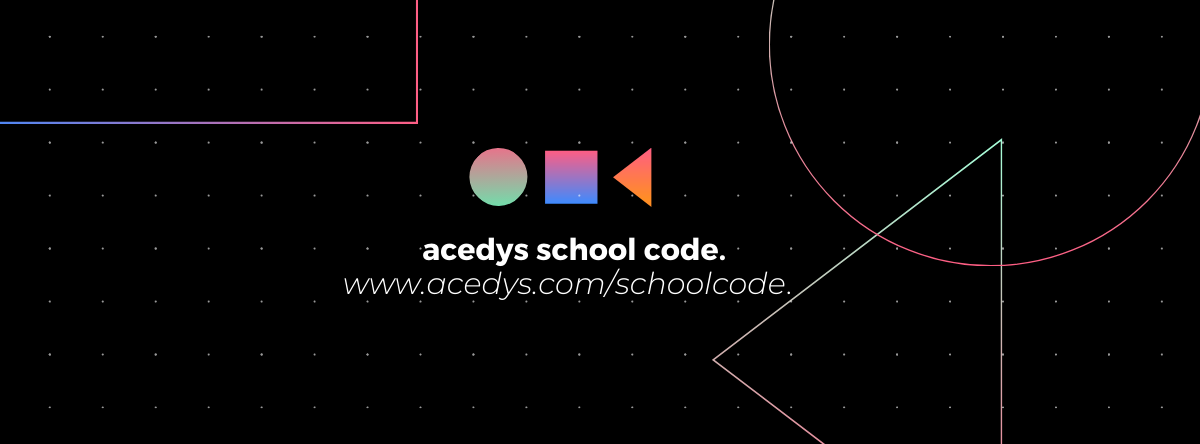
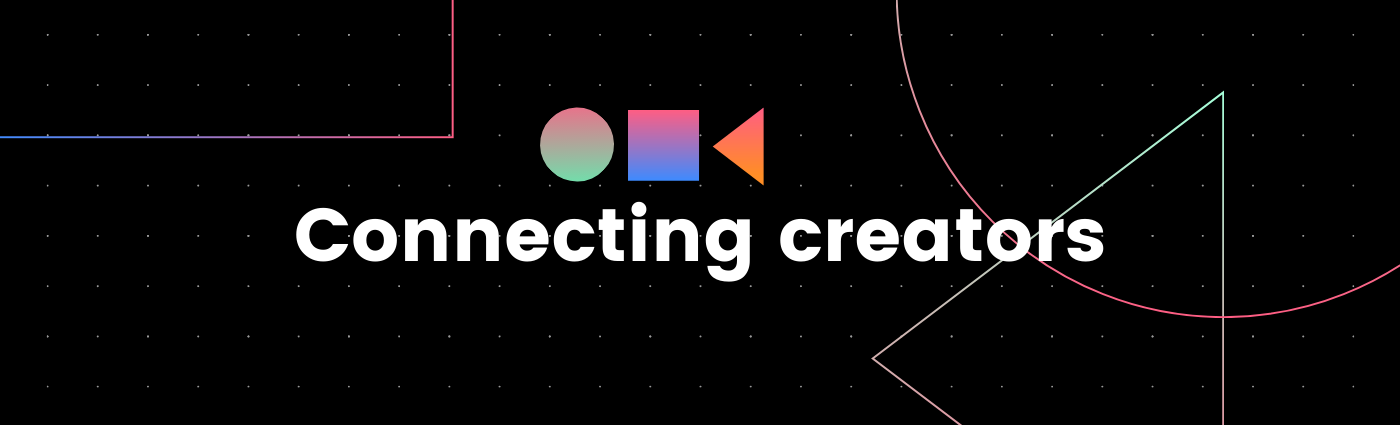
Add files via upload

diff --git a/index.html b/index.html
@@ -45,11 +45,11 @@
                         <ul class="flex space-x-8 text-sm font-semibold">
                             <li><a href="index.html" class="active border-b-2 border-pink-500 pb-2">Home</a></li>
                             <li><a href="blocks.html" class="hover:text-pink-500">Blocks</a></li>
-                            <li><a href="templates.html" class="hover:text-pink-500">Templates</a></li>
+                            <li><a href="templates.html" class="hover:text-pink-500">Devmart</a></li>
                             <li><a href="codehub.html" class="hover:text-pink-500">Code hub</a></li>
                             <li><a href="devgroups.html" class="hover:text-pink-500">Dev groups</a></li>
 
-                            <li><a href="weblit.html" class="cta bg-pink-500 hover:bg-pink-600 px-3 py-2 rounded text-white font-normal"><b>Weblit beta</b></a></li>
+                            <li><a href="weblit.html" class="cta bg-black hover:bg-black px-3 py-2 rounded text-white font-normal"><b>Get started</b></a></li>
                         </ul>
                     </navbar>
 
@@ -66,6 +66,56 @@
                     <h1 class=" font-bold text-4xl md:text-5xl max-w-xl text-gray-900 leading-tight">Welcome to acedys</h1>
                     <hr class=" w-12 h-1 bg-pink-500 rounded-full mt-2">
                     <div class="get-app flex space-x-5 mt-5 justify-center md:justify-start">
+                        <button class=" bg-black shadow-md px-5 py-2 rounded-lg flex items-center space-x-4">
+
+                         <a href="#">   <div class="text">
+                            <p style="font-size: 17px;" class=" text-xs font-semibold text-white">Sign up</p>
+                            </div></a>
+                        </button>
+                        <button class=" bg-black shadow-md px-5 py-2 rounded-lg flex items-center space-x-4">
+                            <div class="image">
+
+                         <a href="#">  <div class="text">
+                                <p style="font-size: 18px;" class="text-xs font-semibold text-white">Log in</p>
+                            </div>
+                         </a> 
+                        </button>
+
+                    </div>
+                </div>
+
+                <div class="hero-image col-span-6">
+
+
+<img src="ac.jpg">
+
+
+
+                 
+                </div>
+            </div>
+              <section class="text-gray-700 body-font">
+  <div class="container px-1 py-20 mx-auto flex flex-col">
+    <div class="lg:w-6/6 mx-auto">
+      <div class="rounded-lg h-70 overflow-hidden">
+        <img alt="content" class="object-cover object-center h-full w-full" src="connect.png">
+      </div>
+      <div class="flex flex-col sm:flex-row mt-10">
+        <div class="sm:w-1/4 text-center sm:pr-8 sm:py-8">
+          <div class=" rounded-full inline-flex items-center justify-center">
+
+            <img style="width: 165px;" src="ac.png">
+          </div>
+          <div class="flex flex-col items-center text-center justify-center">
+            <h2 class="font-medium title-font mt-4 text-gray-900 text-lg">Try acedys beta</h2>
+
+
+
+          </div>
+        </div>
+        <div class="sm:w-2/3 sm:pl-8 sm:py-8 sm:border-l border-gray-300 sm:border-t-0 border-t mt-4 pt-4 sm:mt-0 text-center sm:text-left">
+          <p class="leading-relaxed text-lg mb-4">Nmap is a free and open-source network scanner created by Gordon Lyon. Nmap is used to discover hosts and services on a computer network by sending packets and analyzing the responses. Nmap provides a num</p>
+<div class="get-app flex space-x-5 mt-5 justify-center md:justify-start">
                         <button class=" bg-white shadow-md px-1 py-2 rounded-lg flex items-center space-x-4">
 
                          <a href="swagstore.html">   <div class="text">
@@ -84,64 +134,48 @@
                             <div class="image">
 
                          <a href="freebies.html">  <div class="text">
-                                <p style="font-size: 15px;" class="text-xs font-semibold text-gray-900">Deals</p>
+                                <p style="font-size: 15px;" class="text-xs font-semibold text-gray-900">Freebies</p>
                             </div>
                             </a> 
                         </button>
-                      <button class="google bg-white shadow-md px-3 py-2 rounded-lg flex items-center space-x-4">
+
+                    </div>
+
+
+                    <div class="get-app flex space-x-5 mt-5 justify-center md:justify-start">
+                        <button class=" bg-white shadow-md px-1 py-2 rounded-lg flex items-center space-x-4">
+
+                         <a href="swagstore.html">   <div class="text">
+                            <p style="font-size: 15px;" class=" text-xs font-semibold text-gray-900">Workshops</p>
+                            </div></a>
+                        </button>
+                        <button class=" bg-white shadow-md px-3 py-2 rounded-lg flex items-center space-x-4">
+                            <div class="image">
+
+                         <a href="learn.html">  <div class="text">
+                                <p style="font-size: 15px;" class="text-xs font-semibold text-gray-900">Internships</p>
+                            </div>
+                         </a> 
+                        </button>
+                          <button class="google bg-white shadow-md px-3 py-2 rounded-lg flex items-center space-x-4">
                             <div class="image">
 
                          <a href="freebies.html">  <div class="text">
-                                <p style="font-size: 15px;" class="text-xs font-semibold text-gray-900">Workshop</p>
+                                <p style="font-size: 15px;" class="text-xs font-semibold text-gray-900">book store</p>
                             </div>
                             </a> 
                         </button>
+
                     </div>
-                </div>
-
-                <div class="hero-image col-span-6">
-
-
-<img src="ac.jpg">
-
-
-
-                 
-                </div>
-            </div>
-        </div>
-    </div>
-        <section class="text-gray-700 body-font">
-  <div class="container px-5 py-24 mx-auto flex flex-col">
-    <div class="lg:w-4/6 mx-auto">
-      <div class="rounded-lg h-64 overflow-hidden">
-        <img alt="content" class="object-cover object-center h-full w-full" src="sbanner.png">
-      </div>
-      <div class="flex flex-col sm:flex-row mt-10">
-        <div class="sm:w-1/3 text-center sm:pr-8 sm:py-8">
-          <div class="w-20 h-20 rounded-full inline-flex items-center justify-center">
-
-            <img src="soc.png">
-          </div>
-          <div class="flex flex-col items-center text-center justify-center">
-            <h2 class="font-medium title-font mt-4 text-gray-900 text-lg">School of code</h2>
-            <div class="w-12 h-1 bg-green-00 rounded mt-2 mb-4"></div>
-           <a href=""><p class="text-base text-gray-100 bg-green-700 hover:bg-green-600 px-3 py-2 rounded text-white font-normal">Scool code</p></a>
-
-          </div>
-        </div>
-        <div class="sm:w-2/3 sm:pl-8 sm:py-8 sm:border-l border-gray-300 sm:border-t-0 border-t mt-4 pt-4 sm:mt-0 text-center sm:text-left">
-          <p class="leading-relaxed text-lg mb-4">dshfb sdbfsdhfbs fb dsBF SFSDFjsbf SBFMSFHB FdsfB sf Bsdf BsfjB sfmdsmfB nsdbf smfsdhfMsdfBfV Hsdvf svf HsdvfMsdfBsdnmfF hFv FVsd nVf sdhfBsdhnvBds dsf sf vmnf sdh fsf Vsmf shFBs FBB KEBF B FEBF KDFBKEA FHI;WEH .DKF UIFHE fkbwefgsgbhjvfeuh; EWKFBUG W;IUEHFKFBWUGU E bWELUF EW </p>
-          <a class="text-green-800 inline-flex items-center"><strong>Join School code</strong>
-            <svg fill="none" stroke="currentColor" stroke-linecap="round" stroke-linejoin="round" stroke-width="2" class="w-4 h-4 ml-2" viewBox="0 0 24 24">
-              <path d="M5 12h14M12 5l7 7-7 7"></path>
-            </svg>
-          </a>
+          
         </div>
       </div>
     </div>
   </div>
 </section>
+        </div>
+    </div>
+        
     <div class="mobile-navbar">         
 
         <div class="navbar-wrapper fixed top-0 left-0 h-full bg-white z-30 w-64 shadow-lg p-5" 
@@ -215,7 +249,7 @@
             </div>
         </div>
     </div>
-   
+ 
  
 <script src="https://cdn.jsdelivr.net/gh/alpinejs/alpine@v2.3.5/dist/alpine.min.js" defer></script>
 </body>
